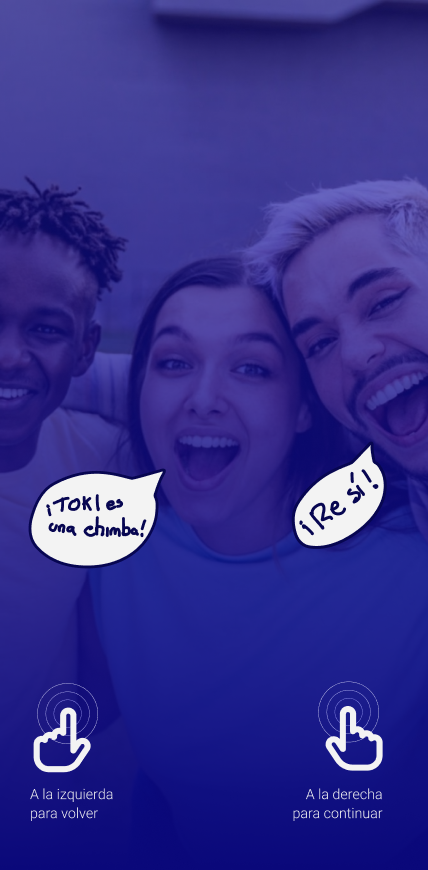
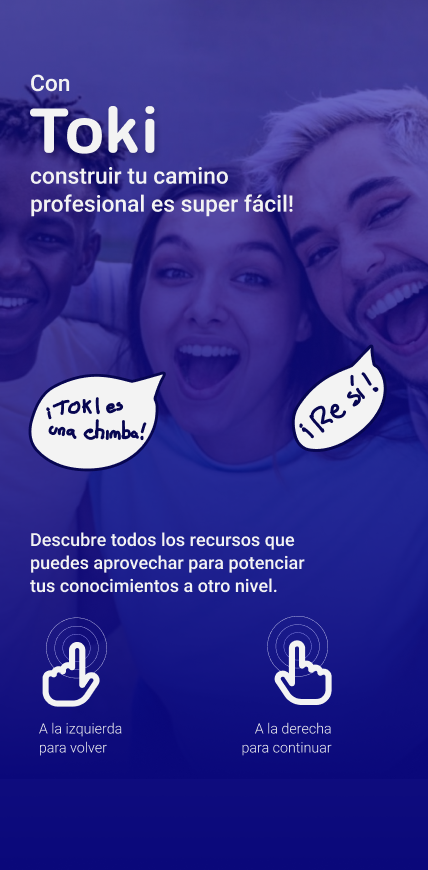
Presentation day

diff --git a/dist/register2.html b/dist/register2.html
@@ -31,8 +31,16 @@
             <div class="register__semester">
                     <select form="registerUserForm2" class="register__select" id="semester"> 
                         <option value="">Elige tu semestre</option>
-                        <option value="4">4to semestre</option>
-                        <option value="5">5to semestre</option>
+                        <option value="4">1° semestre</option>
+                        <option value="4">2° semestre</option>
+                        <option value="3">3° semestre</option>
+                        <option value="4">4° semestre</option>
+                        <option value="5">5° semestre</option>
+                        <option value="6">6° semestre</option>
+                        <option value="7">7° semestre</option>
+                        <option value="8">8° semestre</option>
+                        <option value="9">9° semestre</option>
+                        <option value="10">10° semestre</option>
                     </select>
             </div>
             <div class="register__asignature">
@@ -48,7 +56,7 @@
                         <thead>
                             <tr>
                                 <th>Materia</th>
-                                <th>¿Virtual?</th>
+                                <th>Vista<br> en 2020-1</th>
                                 <th>Nota</th>
                             </tr>
                         </thead>
@@ -98,7 +106,7 @@
                         <thead>
                             <tr>
                                 <th>Materia</th>
-                                <th>¿Virtual?</th>
+                                <th>Vista en 2020-1</th>
                                 <th>Nota</th>
                             </tr>
                         </thead>
@@ -120,6 +128,13 @@
                             <tr>
                                 <td class="materia">Diseño tridimensional</td>
                                 <td><input type="checkbox" name="tri_check" value="1" class="check"></td>
+                                <td>
+                                    <input type="number" min="1" max="5" step="0.1" placeholder="Nota" class="nota">
+                                </td>
+                            </tr>
+                            <tr>
+                                <td class="materia">Expresión Gráfica</td>
+                                <td><input type="checkbox" name="expre_check" value="1" class="check"></td>
                                 <td>
                                     <input type="number" min="1" max="5" step="0.1" placeholder="Nota" class="nota">
                                 </td>
@@ -148,7 +163,7 @@
                         <thead>
                             <tr>
                                 <th>Materia</th>
-                                <th>¿Virtual?</th>
+                                <th>Vista en 2020-1</th>
                                 <th>Nota</th>
                             </tr>
                         </thead>
@@ -205,7 +220,7 @@
                         <thead>
                             <tr>
                                 <th>Materia</th>
-                                <th>¿Virtual?</th>
+                                <th>Vista en 2020-1</th>
                                 <th>Nota</th>
                             </tr>
                         </thead>
@@ -262,7 +277,7 @@
                         <thead>
                             <tr>
                                 <th>Materia</th>
-                                <th>¿Virtual?</th>
+                                <th>Vista en 2020-1</th>
                                 <th>Nota</th>
                             </tr>
                         </thead>
@@ -319,7 +334,7 @@
                         <thead>
                             <tr>
                                 <th>Materia</th>
-                                <th>¿Virtual?</th>
+                                <th>Vista en 2020-1</th>
                                 <th>Nota</th>
                             </tr>
                         </thead>
@@ -376,7 +391,7 @@
                         <thead>
                             <tr>
                                 <th>Materia</th>
-                                <th>¿Virtual?</th>
+                                <th>Vista en 2020-1</th>
                                 <th>Nota</th>
                             </tr>
                         </thead>
@@ -433,7 +448,7 @@
                         <thead>
                             <tr>
                                 <th>Materia</th>
-                                <th>¿Virtual?</th>
+                                <th>Vista en 2020-1</th>
                                 <th>Nota</th>
                             </tr>
                         </thead>
@@ -483,7 +498,7 @@
                         <thead>
                             <tr>
                                 <th>Materia</th>
-                                <th>¿Virtual?</th>
+                                <th>Vista en 2020-1</th>
                                 <th>Nota</th>
                             </tr>
                         </thead>
@@ -533,7 +548,7 @@
                         <thead>
                             <tr>
                                 <th>Materia</th>
-                                <th>¿Virtual?</th>
+                                <th>Vista en 2020-1</th>
                                 <th>Nota</th>
                             </tr>
                         </thead>

diff --git a/register2.html b/register2.html
@@ -31,8 +31,16 @@
             <div class="register__semester">
                     <select form="registerUserForm2" class="register__select" id="semester"> 
                         <option value="">Elige tu semestre</option>
-                        <option value="4">4to semestre</option>
-                        <option value="5">5to semestre</option>
+                        <option value="4">1° semestre</option>
+                        <option value="4">2° semestre</option>
+                        <option value="3">3° semestre</option>
+                        <option value="4">4° semestre</option>
+                        <option value="5">5° semestre</option>
+                        <option value="6">6° semestre</option>
+                        <option value="7">7° semestre</option>
+                        <option value="8">8° semestre</option>
+                        <option value="9">9° semestre</option>
+                        <option value="10">10° semestre</option>
                     </select>
             </div>
             <div class="register__asignature">
@@ -48,7 +56,7 @@
                         <thead>
                             <tr>
                                 <th>Materia</th>
-                                <th>¿Virtual?</th>
+                                <th>Vista<br> en 2020-1</th>
                                 <th>Nota</th>
                             </tr>
                         </thead>
@@ -98,7 +106,7 @@
                         <thead>
                             <tr>
                                 <th>Materia</th>
-                                <th>¿Virtual?</th>
+                                <th>Vista en 2020-1</th>
                                 <th>Nota</th>
                             </tr>
                         </thead>
@@ -120,6 +128,13 @@
                             <tr>
                                 <td class="materia">Diseño tridimensional</td>
                                 <td><input type="checkbox" name="tri_check" value="1" class="check"></td>
+                                <td>
+                                    <input type="number" min="1" max="5" step="0.1" placeholder="Nota" class="nota">
+                                </td>
+                            </tr>
+                            <tr>
+                                <td class="materia">Expresión Gráfica</td>
+                                <td><input type="checkbox" name="expre_check" value="1" class="check"></td>
                                 <td>
                                     <input type="number" min="1" max="5" step="0.1" placeholder="Nota" class="nota">
                                 </td>
@@ -148,7 +163,7 @@
                         <thead>
                             <tr>
                                 <th>Materia</th>
-                                <th>¿Virtual?</th>
+                                <th>Vista en 2020-1</th>
                                 <th>Nota</th>
                             </tr>
                         </thead>
@@ -205,7 +220,7 @@
                         <thead>
                             <tr>
                                 <th>Materia</th>
-                                <th>¿Virtual?</th>
+                                <th>Vista en 2020-1</th>
                                 <th>Nota</th>
                             </tr>
                         </thead>
@@ -262,7 +277,7 @@
                         <thead>
                             <tr>
                                 <th>Materia</th>
-                                <th>¿Virtual?</th>
+                                <th>Vista en 2020-1</th>
                                 <th>Nota</th>
                             </tr>
                         </thead>
@@ -319,7 +334,7 @@
                         <thead>
                             <tr>
                                 <th>Materia</th>
-                                <th>¿Virtual?</th>
+                                <th>Vista en 2020-1</th>
                                 <th>Nota</th>
                             </tr>
                         </thead>
@@ -376,7 +391,7 @@
                         <thead>
                             <tr>
                                 <th>Materia</th>
-                                <th>¿Virtual?</th>
+                                <th>Vista en 2020-1</th>
                                 <th>Nota</th>
                             </tr>
                         </thead>
@@ -433,7 +448,7 @@
                         <thead>
                             <tr>
                                 <th>Materia</th>
-                                <th>¿Virtual?</th>
+                                <th>Vista en 2020-1</th>
                                 <th>Nota</th>
                             </tr>
                         </thead>
@@ -483,7 +498,7 @@
                         <thead>
                             <tr>
                                 <th>Materia</th>
-                                <th>¿Virtual?</th>
+                                <th>Vista en 2020-1</th>
                                 <th>Nota</th>
                             </tr>
                         </thead>
@@ -533,7 +548,7 @@
                         <thead>
                             <tr>
                                 <th>Materia</th>
-                                <th>¿Virtual?</th>
+                                <th>Vista en 2020-1</th>
                                 <th>Nota</th>
                             </tr>
                         </thead>

diff --git a/competenciesResult.html b/competenciesResult.html
@@ -73,7 +73,7 @@
         <div class="result__top">
             <p class="result__subtitle">Tu competencias a mejorar son:</p>
             <div class="result__firstPosition">
-                <p class="result__body">Primer puesto</p>
+                
                 <img src="./img/testResult/clarificadorTop.png" data-comp="Clarificador" data-position="8" class="result__image">
                 <img src="./img/testResult/cocreadorTop.png" data-comp="Co-creador" data-position="8" class="result__image">
                 <img src="./img/testResult/comunicadorTop.png" data-comp="Comunicador efectivo" data-position="8" class="result__image">
@@ -85,7 +85,7 @@
                 <img src="./img/testResult/visionarioTop.png" data-comp="Visionario" data-position="8" class="result__image">
             </div>
             <div class="result__secondPosition">
-                <p class="result__body">Segundo puesto</p>
+                
                 <img src="./img/testResult/clarificadorTop.png" data-comp="Clarificador" data-position="7" class="result__image">
                 <img src="./img/testResult/cocreadorTop.png" data-comp="Co-creador" data-position="7" class="result__image">
                 <img src="./img/testResult/comunicadorTop.png" data-comp="Comunicador efectivo" data-position="7" class="result__image">
@@ -97,7 +97,7 @@
                 <img src="./img/testResult/visionarioTop.png" data-comp="Visionario" data-position="7" class="result__image">
             </div>
             <div class="result__thirdPosition">
-                <p class="result__body">Tercer puesto</p>
+              
                 <img src="./img/testResult/clarificadorTop.png" data-comp="Clarificador" data-position="6" class="result__image">
             <img src="./img/testResult/cocreadorTop.png" data-comp="Co-creador" data-position="6" class="result__image">
             <img src="./img/testResult/comunicadorTop.png" data-comp="Comunicador efectivo" data-position="6" class="result__image">

diff --git a/dist/competenciesResult.html b/dist/competenciesResult.html
@@ -73,7 +73,7 @@
         <div class="result__top">
             <p class="result__subtitle">Tu competencias a mejorar son:</p>
             <div class="result__firstPosition">
-                <p class="result__body">Primer puesto</p>
+                
                 <img src="/clarificadorTop.png" data-comp="Clarificador" data-position="8" class="result__image">
                 <img src="/cocreadorTop.png" data-comp="Co-creador" data-position="8" class="result__image">
                 <img src="/comunicadorTop.png" data-comp="Comunicador efectivo" data-position="8" class="result__image">
@@ -85,7 +85,7 @@
                 <img src="/visionarioTop.png" data-comp="Visionario" data-position="8" class="result__image">
             </div>
             <div class="result__secondPosition">
-                <p class="result__body">Segundo puesto</p>
+                
                 <img src="/clarificadorTop.png" data-comp="Clarificador" data-position="7" class="result__image">
                 <img src="/cocreadorTop.png" data-comp="Co-creador" data-position="7" class="result__image">
                 <img src="/comunicadorTop.png" data-comp="Comunicador efectivo" data-position="7" class="result__image">
@@ -97,7 +97,7 @@
                 <img src="/visionarioTop.png" data-comp="Visionario" data-position="7" class="result__image">
             </div>
             <div class="result__thirdPosition">
-                <p class="result__body">Tercer puesto</p>
+              
                 <img src="/clarificadorTop.png" data-comp="Clarificador" data-position="6" class="result__image">
             <img src="/cocreadorTop.png" data-comp="Co-creador" data-position="6" class="result__image">
             <img src="/comunicadorTop.png" data-comp="Comunicador efectivo" data-position="6" class="result__image">

diff --git a/onboarding.html b/onboarding.html
@@ -19,16 +19,6 @@
     <div id="leftArea" class="interactableArea"></div>
     <div id="rightArea" class="interactableArea"></div>
 
-    <main class="main">
-        <h2>Con</h2>
-        <img src="./img/logowhite.png" class="main__logo">
-        <h2>construir tu camino</h2>
-        <h2>profesional es super fácil!</h2>
-    </main>
-    <div class="info">
-        <p class="info__subtitle">Descubre todos los recursos que 
-        <br>puedes aprovechar para potenciar 
-        <br>tus conocimientos a otro nivel.</p>
-    </div>
+ 
     <script src="./src/scripts/login.js" type="module"></script>
 </body>

diff --git a/dist/onboarding.html b/dist/onboarding.html
@@ -19,16 +19,6 @@
     <div id="leftArea" class="interactableArea"></div>
     <div id="rightArea" class="interactableArea"></div>
 
-    <main class="main">
-        <h2>Con</h2>
-        <img src="/logowhite.png" class="main__logo">
-        <h2>construir tu camino</h2>
-        <h2>profesional es super fácil!</h2>
-    </main>
-    <div class="info">
-        <p class="info__subtitle">Descubre todos los recursos que 
-        <br>puedes aprovechar para potenciar 
-        <br>tus conocimientos a otro nivel.</p>
-    </div>
+ 
     <script src="/competencies.js" defer=""></script>
 </body></html>

diff --git a/dist/competencies.js b/dist/competencies.js
@@ -2505,8 +2505,8 @@ parcelHelpers.export(exports, "validateCallback", ()=>validateCallback);
 parcelHelpers.export(exports, "validateContextObject", ()=>validateContextObject);
 parcelHelpers.export(exports, "validateIndexedDBOpenable", ()=>validateIndexedDBOpenable);
 parcelHelpers.export(exports, "validateNamespace", ()=>validateNamespace);
-var global = arguments[3];
 var process = require("7c980b15fdb56214");
+var global = arguments[3];
 const CONSTANTS = {
     /**
      * @define {boolean} Whether this is the client Node.js SDK.
